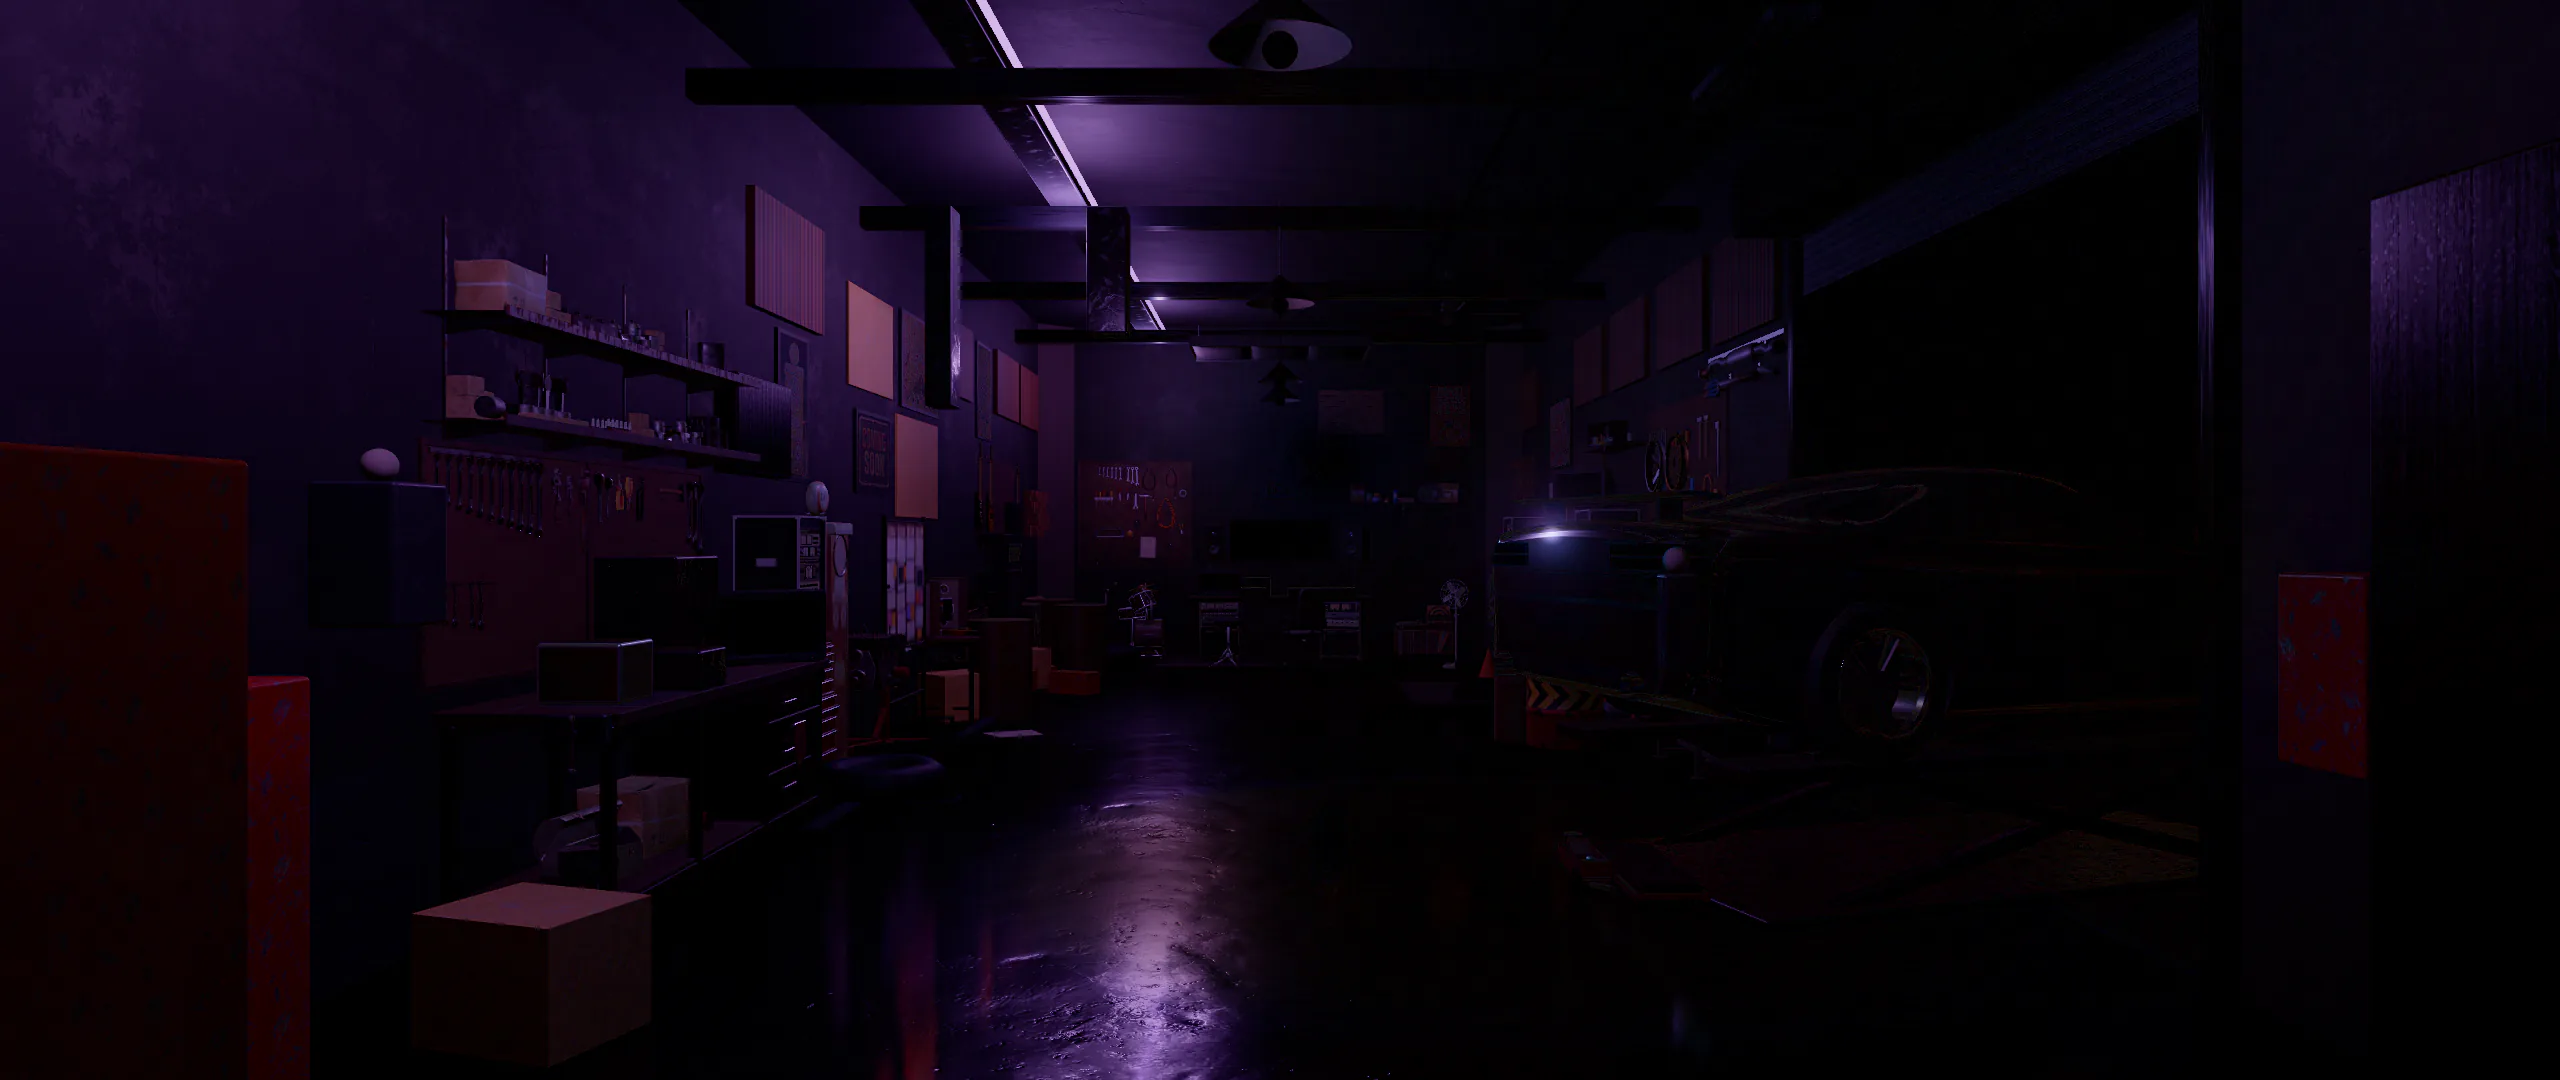
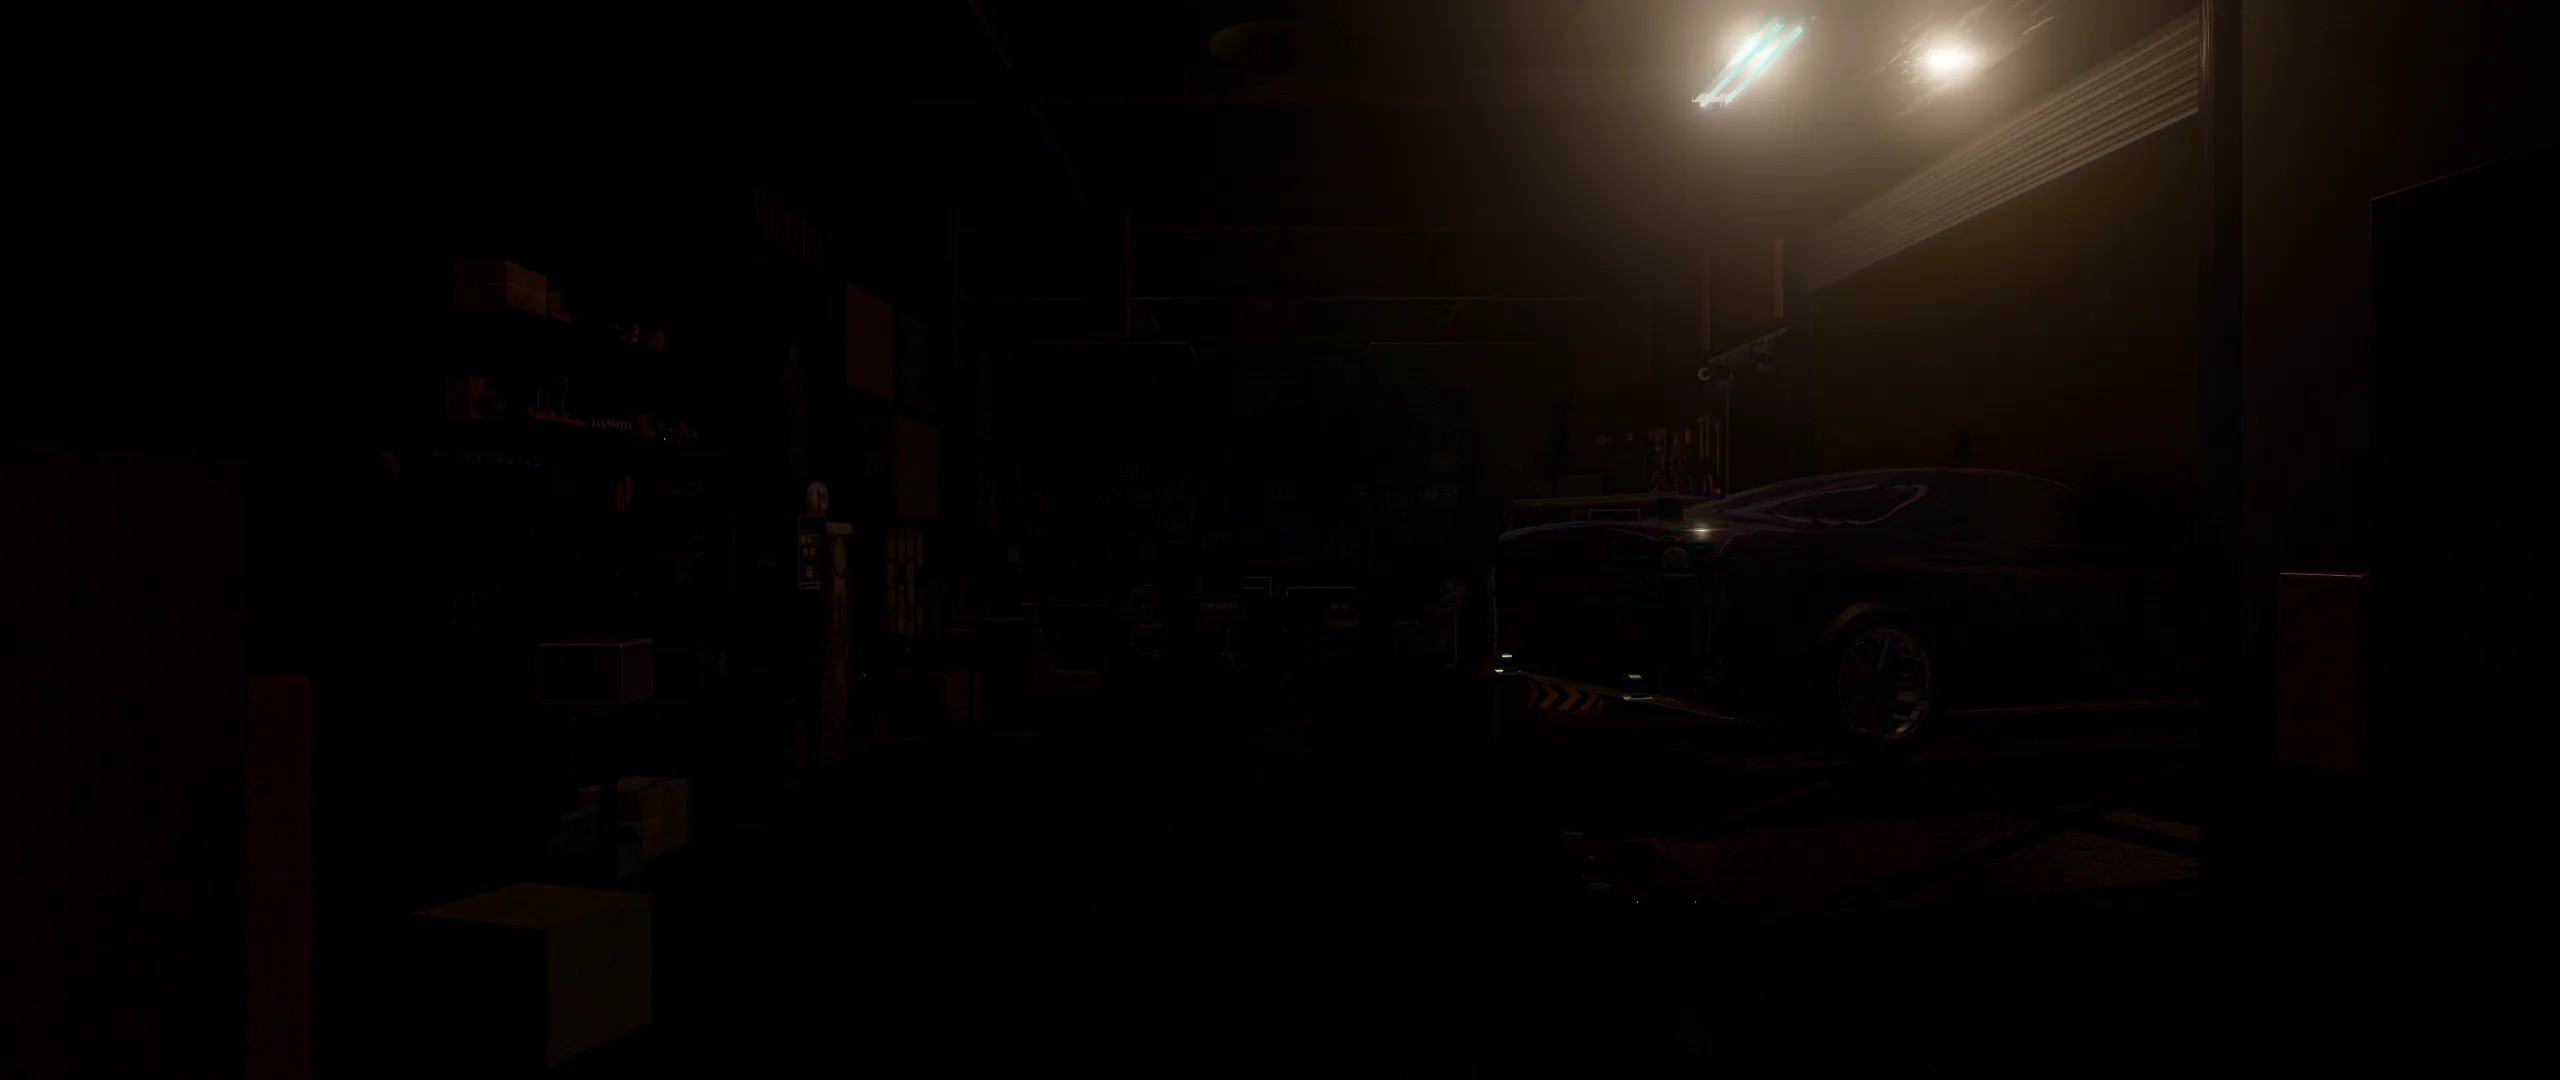
Long garage loading screen, round 2 (Dan 11-09): the TV lights up first, much less grain
The TV at the end of the aisle is bank 1 (standby, backlight, picture), drawn per screen width like the room's own
TV captures (&tvcap=), so the hand-off shows the same screen; the big line follows the hand-off. Grain ~1/3.
check.mjs leaves the nav out of the hand-off diff and reports it blurred too; Chrome gets 5 min to start on a busy Mac.

diff --git a/tools/_home-opening/room.html b/tools/_home-opening/room.html
@@ -134,6 +134,8 @@
           it comes on (lights/lights-on.js): a tube strikes, a neon buzzes on, a bulb warms up, the gear powers on. props =
           the lit props on its circuit (LIT with a light); w = its share of the room's fill (the hemisphere, the reflections) */
           window.LIGHT_BANKS = [
+            { id: 'tv', kind: 'screen', w: 0.15,                   // the TV at the end of the aisle first (Dan 11-09: "the small lcd screen to light up first");
+              caps: ['1141x636', '1440x900', '1920x1080'] },       //   its picture per screen width, the TV's own captures (CAPS): the hand-off shows the same one
             { id: 'shop', kind: 'tube', props: ['N02'] },          // the twin-tube shop light by the door, one tube dying
             { id: 'neonL', kind: 'neon' },                         // the violet strip, left
             { id: 'neonR', kind: 'neon' },                         // the magenta strip, right
@@ -355,6 +357,7 @@ const KEY = 'hoRoom:v1';
 const CAPTURE = new URLSearchParams(location.search).get('capture'), CAPTURE_PAINTED = new URLSearchParams(location.search).has('painted');
 // &lights=<k>: the loading screen's picture of the room with its first k light banks on (BANKS; lights/render.mjs)
 const LIGHTS = CAPTURE != null ? new URLSearchParams(location.search).get('lights') : null;
+const TVCAP = CAPTURE != null ? new URLSearchParams(location.search).get('tvcap') : null; // &tvcap=<CAPS tag>: the TV's picture for that screen width
 const S = { ...DEF, moves: structuredClone(DEF.moves) };
 let stored = {};
 try { stored = JSON.parse(localStorage.getItem(KEY) || '{}') || {}; } catch (e) {}
@@ -1976,7 +1979,7 @@ function placeShots() {
 function resize() {
   const vw = innerWidth, vh = innerHeight;
   L.vw = vw; L.vh = vh;
-  const c = pickCap(vw);
+  const c = (TVCAP && CAPS.find((x) => x.tag === TVCAP)) || pickCap(vw);
   if (c !== cap) {
     cap = c;
     tvImg.src = `assets/tv-${c.tag}.webp`;
@@ -2171,7 +2174,7 @@ function frame(now) {
   const neonK = flicker(t, INTRO.neon, 3) * S.neon * hum;
   const warm = smooth(0, 1, env(t, INTRO.lamps)), lampK = warm * S.lamps;
   const signK = flicker(t, INTRO.sign, 11) * hum * (!reduced && hash(Math.floor(now / 140) + 5) > 0.994 ? 0.25 : 1); // an old sign: a rare stutter
-  const tk = LIGHTS != null ? 0 : reduced ? 1 : env(t, INTRO.tv), open = smooth(0.18, 0.62, tk); // (a light capture: the TV off)
+  const tk = LIGHTS != null ? lv('tv') : reduced ? 1 : env(t, INTRO.tv), open = smooth(0.18, 0.62, tk); // (a light capture: the TV with its bank)
   if (R.probe.due && now > R.probe.due) { R.probe.due = 0; updateProbe(); } // (its capture lights the room fully: before this frame's levels)
   lightRoom(neonK, warm, signK, open, far, now);
   R.tv.faceMat.color.setScalar(locked ? 1 : 0.03 + 0.97 * open);
@@ -2621,12 +2624,12 @@ await renderer.compileAsync(scene, camera);
 renderer.setRenderTarget(null);
 loaded('compile', 1, 1);
 updateProbe(); R.probe.due = 0;
-// the loading screen lit the room bank by bank: the live room opens with every bank on and the TV still to come (the same
-// picture), takes over once the last bank has settled, and the TV powers on a beat later (lights/README.md)
+// the loading screen lit the room bank by bank, the TV first: the live room opens with every bank on (the same picture),
+// takes over once the last bank has settled, and the big line comes in a beat later (lights/README.md)
 const LO = CAPTURE == null ? window.lightsOn : null;
-if (LO) INTRO.neon = INTRO.lamps = INTRO.sign = [-2, -1];
+if (LO) INTRO.neon = INTRO.lamps = INTRO.sign = INTRO.tv = [-2, -1];
 t0 = performance.now(); frame(t0); // one first frame (dark without the loading screen): the glow, the finish and the floor's mirror compile before the clock starts
-if (LO) { await LO.ready(); R.handoffAt = performance.now(); t0 = R.handoffAt - INTRO.tv[0] + 300; LO.handoff(); lenis?.start(); }
+if (LO) { await LO.ready(); R.handoffAt = performance.now(); t0 = R.handoffAt - INTRO.read[0] + 400; LO.handoff(); lenis?.start(); }
 else t0 = performance.now();
 if (LIGHTS != null) { t0 -= 1e5; window.__lightsReady = true; } // a light capture: every envelope done (lights/render.mjs)
 requestAnimationFrame(raf);

diff --git a/tools/_home-opening/lights/lights-on.js b/tools/_home-opening/lights/lights-on.js
@@ -32,8 +32,10 @@
   };
   const base = pic('base.webp', 'lo-base', true);
   const baseIn = base.decode().catch(() => {});
+  // a bank drawn per screen width (the TV: its picture follows the room's CAPS): the one the room will pick, the nearest
+  const capOf = (caps) => caps.reduce((a, t) => (Math.abs(+t.split('x')[0] - innerWidth) < Math.abs(+a.split('x')[0] - innerWidth) ? t : a));
   const L = banks.map((b, i) => {
-    const el = pic(`bank-${i + 1}.webp`, 'lo-bank');
+    const el = pic(`bank-${i + 1}${b.caps ? '@' + capOf(b.caps) : ''}.webp`, 'lo-bank');
     return { ...b, i, el, dec: el.decode().catch(() => {}), done: null };
   });
   const W = L.reduce((s, b) => s + (b.w ?? 1), 0) || 1;
@@ -45,7 +47,7 @@
     const c = document.createElement('canvas'); c.width = c.height = 192;
     const x = c.getContext('2d'), d = x.createImageData(192, 192);
     for (let i = 0; i < d.data.length; i += 4) {
-      const v = Math.pow(Math.random(), 4) * 70;
+      const v = Math.pow(Math.random(), 5) * 48; // (fine and faint: Dan 11-09, "too much noise in the beginning")
       d.data[i] = v * (0.85 + Math.random() * 0.3); d.data[i + 1] = v * (0.8 + Math.random() * 0.3); d.data[i + 2] = v * (0.95 + Math.random() * 0.35); d.data[i + 3] = 255;
     }
     x.putImageData(d, 0, 0); grain.style.backgroundImage = `url(${c.toDataURL()})`;
@@ -54,7 +56,7 @@
       grain.animate(jumps, { duration: 9 * 70, iterations: Infinity });
     }
   } catch (e) {}
-  const setGrain = () => { grain.style.opacity = (0.75 * Math.pow(1 - lit, 2.2)).toFixed(3); };
+  const setGrain = () => { grain.style.opacity = (0.3 * Math.pow(1 - lit, 2.5)).toFixed(3); };
 
   // the eyes getting used to the dark: the room's shapes come up out of black
   baseIn.then(() => {
@@ -91,6 +93,9 @@
       const f = flashSlot(now + r(0, 80)) - now;
       return { strike: f + 220, flareK: darkK * 0.8, pts: [[0, 0, 'step'], [f, 0, 'step'], [f, 0.5, 'step'], [f + 70, 0.07, 'step'], [f + 220, 0.07, 'step'],
         [f + 220, 0.9, 'ease-out'], [f + 520, 1]] };
+    }
+    if (b.kind === 'screen') { // an LCD: the standby light, the backlight on a dark panel, then the picture comes up
+      return { strike: 480, flareK: 0, pts: [[0, 0, 'step'], [60, 0.1, 'step'], [480, 0.1, 'cubic-bezier(.25,.6,.3,1)'], [900, 1]] };
     }
     if (b.kind === 'gear') { // the gear: the CRTs pop on, the sign buzzes, the LEDs come up
       const f = flashSlot(now) - now;

diff --git a/tools/_home-opening/lights/layers.py b/tools/_home-opening/lights/layers.py
@@ -2,7 +2,8 @@
 # bank-k.webp = render k minus render k-1 per channel, never below 0, so the page's plus-lighter sum gives back render k
 # at every step. Prints each file's size and how far the encoded sum lands from the full room (the hand-off's picture).
 #   python3 -I layers.py <renders dir> <out dir> <banks> <quality>
-#   python3 -I layers.py --diff a.png b.png          (two renders of the same room: they must match)
+#   python3 -I layers.py --diff a.png b.png [top right bottom]   (two pictures of the same room, an edge band left out;
+#                                                                  also blurred 4 px: light and place, not edge resampling)
 import os, subprocess, sys, tempfile
 import numpy as np
 from PIL import Image
@@ -14,10 +15,18 @@ def report(a, b, what):
     print(f'  {what}: mean {d.mean():.2f} levels, p99 {np.percentile(d, 99):.0f}, {100 * (d > 8).mean():.2f} % of pixels off by more than 8')
 
 if sys.argv[1] == '--diff':
-    report(load(sys.argv[2]), load(sys.argv[3]), 'two captures of the full room')
+    a, b = load(sys.argv[2]), load(sys.argv[3])
+    t, r, btm = (int(x) for x in (sys.argv[4:7] if len(sys.argv) > 6 else (0, 0, 0)))
+    a, b = a[t:a.shape[0] - btm, :a.shape[1] - r], b[t:b.shape[0] - btm, :b.shape[1] - r]
+    report(a, b, 'apart')
+    from PIL import ImageFilter
+    blur = lambda x: np.asarray(Image.fromarray(x.astype(np.uint8)).filter(ImageFilter.GaussianBlur(4))).astype(np.int16)
+    report(blur(a), blur(b), 'apart, blurred 4 px')
     sys.exit()
 
+import json
 src, out, n, q = sys.argv[1], sys.argv[2], int(sys.argv[3]), sys.argv[4]
+caps = {int(k): v for k, v in json.loads(sys.argv[5] if len(sys.argv) > 5 else '{}').items()} # bank -> its screen-width variants (bank-k@<tag>.webp)
 S = [load(os.path.join(src, f'room-{k}.png')) for k in range(n + 1)]
 tmp = tempfile.mkdtemp()
 def encode(arr, name):
@@ -36,9 +45,19 @@ print(f'  base.webp {size / 1024:.0f} KB (the dark room: mean level {S[0].mean()
 for k in range(1, n + 1):
     neg = ((S[k] - S[k - 1]) < -2).any(axis=2).mean() * 100
     d = np.clip(S[k] - acc, 0, 255)
-    size, back = encode(d, f'bank-{k}')
+    if k in caps: # the chain goes on with the room's own pick; each width gets its own file, the same pick under its tag
+        before, sizes = acc, []
+        for tag in caps[k]:
+            dt = np.clip(load(os.path.join(src, f'room-{k}@{tag}.png')) - before, 0, 255)
+            sz, bk = encode(dt, f'bank-{k}@{tag}'); sizes.append(sz)
+            if np.array_equal(load(os.path.join(src, f'room-{k}@{tag}.png')), S[k]): size, back = sz, bk
+        total += sum(sizes) - size # (the one used in the chain is counted below)
+        print(f'  bank-{k}@<{"|".join(caps[k])}>.webp {" / ".join(f"{x / 1024:.0f}" for x in sizes)} KB')
+    else:
+        size, back = encode(d, f'bank-{k}')
     total += size
     acc = np.minimum(acc + back, 255)
-    print(f'  bank-{k}.webp {size / 1024:.0f} KB (adds mean {d.mean():.1f} levels; {neg:.2f} % of pixels lose light)')
+    name = f'bank-{k}' + (f'@{caps[k][-1]}..' if k in caps else '')
+    print(f'  {name}.webp {size / 1024:.0f} KB (adds mean {d.mean():.1f} levels; {neg:.2f} % of pixels lose light)')
 print(f'  total {total / 1024:.0f} KB')
 report(acc, S[n], 'the sum of the encoded layers vs the full room')

diff --git a/tools/_home-opening/lights/README.md b/tools/_home-opening/lights/README.md
@@ -8,12 +8,15 @@ first visit of a session; after that soft rises, no flicker).
 ## What the visitor sees
 
 1. Black, then the eyes get used to the dark: the night through the door, the car's red tail lights, the vending
-   machine and the GAS globes (their own circuit), a camera's grain.
-2. The shop light by the door: its ends glow, it tries twice, it strikes.
-3. The violet strip buzzes on, then the magenta one: the room appears (the exposure catches up: a short overexposure).
-4. The four hanging lamps warm up, front to back toward the TV (the trouble light and the clamp lamp with theirs).
-5. The gear: the REVAUDIO sign, the CRTs, the racks' LEDs and meters, the floor strips.
-6. The live room takes over (the same picture), and the TV powers on in 3D. Then the big line.
+   machine and the GAS globes (their own circuit), a faint camera grain (Dan 11-09: less noise).
+2. The TV at the end of the aisle comes on first (Dan 11-09: "the small lcd screen to light up first"): standby, the
+   backlight on a dark panel, the picture; its glow on the end wall, the desk and the wet floor. Its picture is drawn
+   per screen width (`bank-1@1141x636.webp` ...), the one the room's TV will show (CAPS), so the hand-off is the same.
+3. The shop light by the door: its ends glow, it tries twice, it strikes.
+4. The violet strip buzzes on, then the magenta one: the room appears (the exposure catches up: a short overexposure).
+5. The four hanging lamps warm up, front to back toward the TV (the trouble light and the clamp lamp with theirs).
+6. The gear: the REVAUDIO sign, the CRTs, the racks' LEDs and meters, the floor strips.
+7. The live room takes over (the same picture). Then the big line.
 
 ## How it works
 
@@ -22,14 +25,14 @@ first visit of a session; after that soft rises, no flicker).
 - `lights/render.mjs` renders the room at walk 0 with the first k banks on (`room.html?capture=0&lights=k`, k = 0..8;
   the TV off, nothing moving), and `lights/layers.py` turns them into `assets/lights/base.webp` (the dark room) and
   `bank-<k>.webp` (bank k's own light: room k minus the sum so far as encoded, never below 0). 2560x1080, one picture
-  for every laptop like the still (object-fit cover). 9 files, ~345 KB.
+  for every laptop like the still (object-fit cover). 12 files, 390 KB; a visit loads one TV picture, ~357 KB.
 - `lights/lights-on.js` stacks them with `mix-blend-mode: plus-lighter` (light adds: every step is the room as
   rendered) and plays each bank's opacity by its kind. Opacity only, so the compositor plays it while the 3D compiles.
 - room.html reports the load (`loaded(phase)`): textures by count, models by bytes, the GPU uploads by count, the
-  shader compile; `LOADW` = each phase's share of a cold visit (measured). Bank i comes on at (i + 1) / 9.
+  shader compile; `LOADW` = each phase's share of a cold visit (measured). Bank i comes on at (i + 1) / 10.
 - Hand-off: the live room renders its first frame with every bank on and the TV off under the pictures; once the last
-  bank has settled, the pictures fade (0.5 s), the walk unlocks, the TV powers on 0.3 s later, the sway and the dust
-  come in over 2.5 s.
+  bank has settled, the pictures fade (0.5 s), the walk unlocks, the big line comes in 0.4 s later, the sway and the
+  dust come in over 2.5 s.
 - Flashes: one at a time across the room, the next at least 400 ms after (2.5 a second; WCAG 2.3.1 allows 3, the
   room's rule since 11-04). Reduced motion and the second visit of a session: soft rises, no flicker, no flare.
 - The slow-connection still (`#still`, `assets/still/room-2560.webp`) is gone from room.html: the loading screen is the
@@ -51,7 +54,8 @@ A new skin = new pictures from the same script.
 - Two captures of the full room: 0.00 levels apart (the captures are still, so the layers hold only light).
 - The encoded layers added up vs the full room: mean 2.3 levels per channel, +1.25 bias.
 - The hand-off at 1141x636 @2x (under the nav, clear of the bench button): blurred 4 px (light and place) mean 2.9
-  levels, p99 12; sharp mean 4.5 (edge resampling: the pictures are 2560 wide, the live room 2282 device px).
+  levels, p99 12; sharp mean 4.6 (edge resampling: the pictures are 2560 wide, the live room 2282 device px). With
+  the TV first (round 2): the TV shows the same picture in both.
 - A cold first visit at 40 Mbit/s (no cache): phases end at textures 2.2 s, models 5.5 s, uploads 6.7 s, compile 6.9 s;
   the banks came on at 1.0 · 1.5 · 1.9 · 3.1 · 4.0 · 4.7 · 5.0 · 6.1 s, hand-off 7.1 s; no page errors.
 
